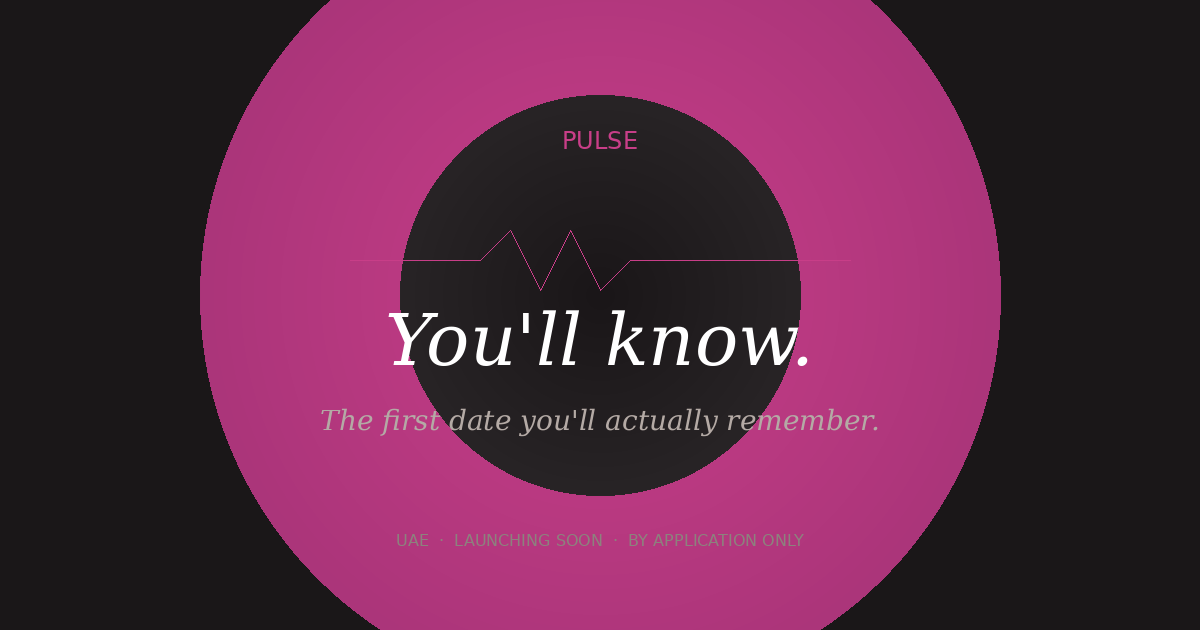
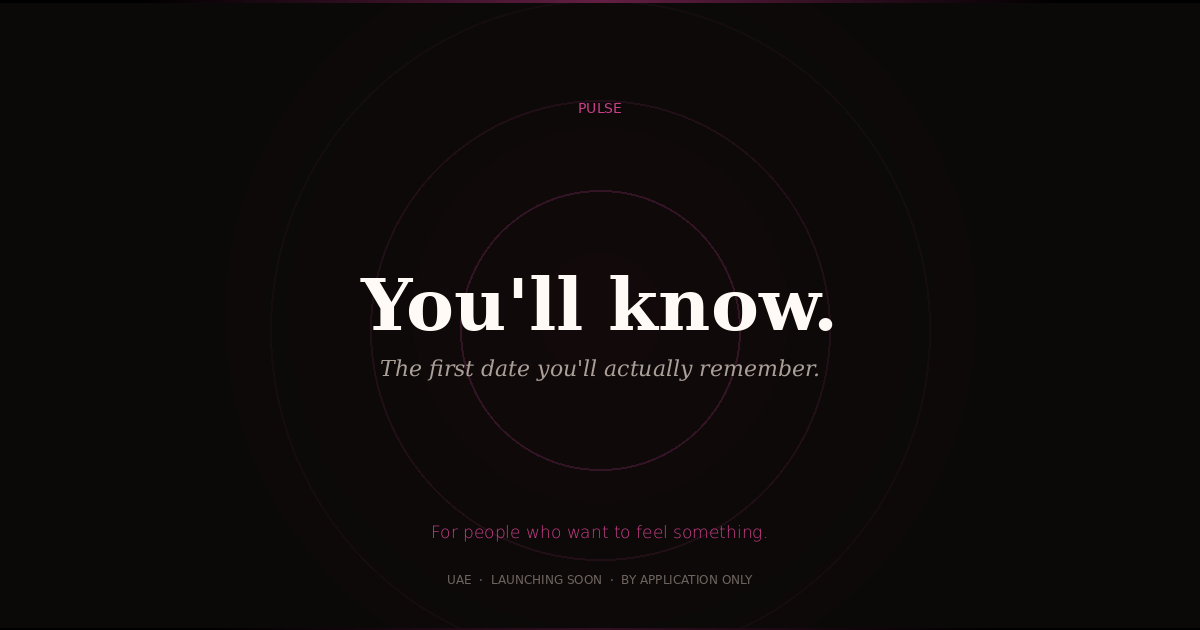
Enhance OG card: premium image, manifesto line, share text
- Redesigned OG image: subtle rings, clean typography, manifesto
- Share text now includes "I'm in. Are you?"
- OG description updated to manifesto line
- Disabled Vercel auth enables rich previews in all messengers

diff --git a/index.html b/index.html
@@ -12,7 +12,7 @@
     <!-- Open Graph — WhatsApp, iMessage, Telegram, Twitter, LinkedIn -->
     <meta property="og:type" content="website" />
     <meta property="og:title" content="Pulse — You'll know." />
-    <meta property="og:description" content="The first date you'll actually remember. UAE · Launching soon · By application only." />
+    <meta property="og:description" content="For people who want to feel something. UAE · Launching soon · By application only." />
     <meta property="og:image" content="https://pulse-orbit-jamal356s-projects.vercel.app/og-image.png" />
     <meta property="og:image:width" content="1200" />
     <meta property="og:image:height" content="630" />

diff --git a/src/screens/WaitlistPage.tsx b/src/screens/WaitlistPage.tsx
@@ -453,9 +453,12 @@ export default function WaitlistPage() {
   const handleShare = useCallback(async () => {
     const siteLink = window.location.origin || 'https://pulse-orbit-jamal356s-projects.vercel.app'
     if (navigator.share) {
-      navigator.share({ url: siteLink }).catch(() => {})
+      navigator.share({
+        text: "I'm in. Are you?",
+        url: siteLink,
+      }).catch(() => {})
     } else {
-      await navigator.clipboard.writeText(siteLink).catch(() => {})
+      await navigator.clipboard.writeText(`I'm in. Are you? ${siteLink}`).catch(() => {})
       setCopiedLink(true)
       setTimeout(() => setCopiedLink(false), 2500)
     }
